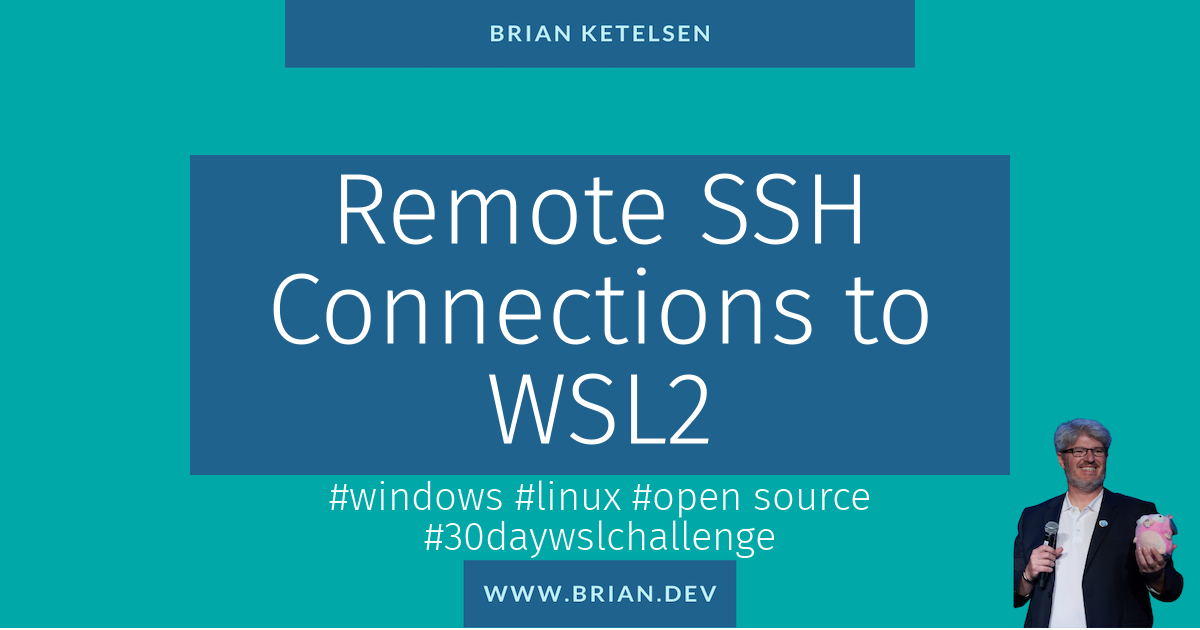
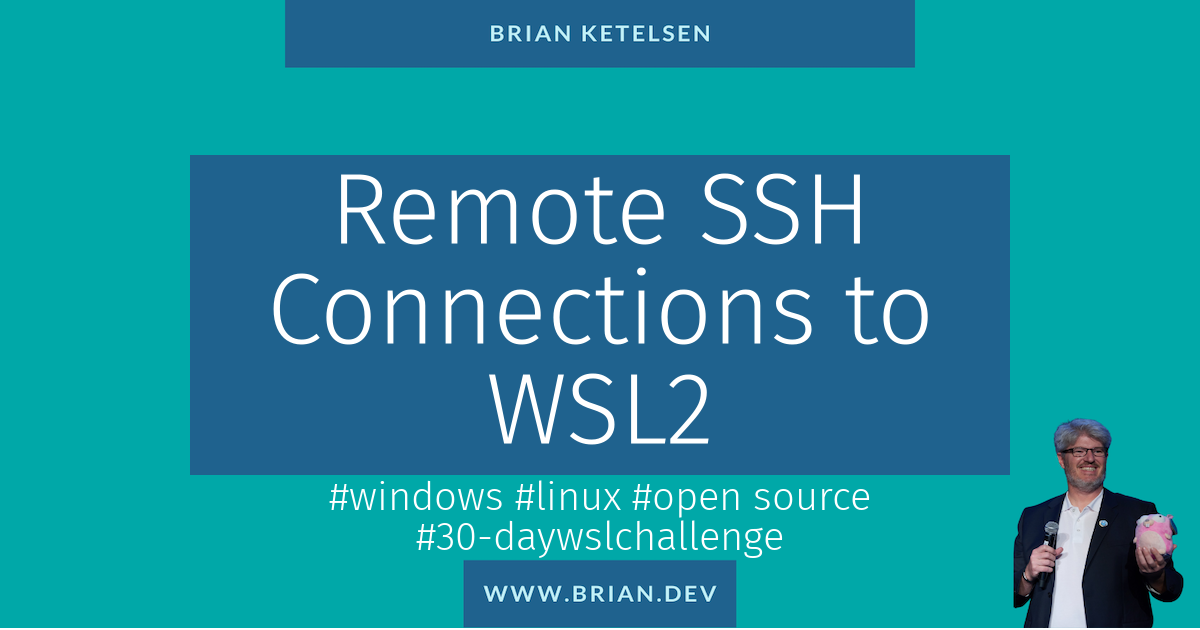
fix some tags

Changed region(s): [[0.3392, 0.8143, 0.6475, 0.9048]]

diff --git a/data/blog/win-the-dev-box.md b/data/blog/win-the-dev-box.md
@@ -3,7 +3,7 @@ title: Windows for Open Source Development
 date: '2020-02-24'
 images: ['/static/images/h3GAGi5tXMU.jpg']
 summary: 'A Series on Using Windows for Open Source Development'
-tags: ['windows', 'linux', 'open source', '30daywslchallenge']
+tags: ['windows', 'linux', 'open source', '30-daywslchallenge']
 ---
 
 I've long used macOS or Linux when I make my Open Source contributions, but I think that the time is right to try Windows as a full-time development environment. If you want to jump on board, this article series is for you!
@@ -18,9 +18,9 @@ The series will continue with other articles and advice on using Windows as your
 
 In a discussion with [Rob Conery](https://twitter.com/robconery) I made the bold statement that with the addition of the [Windows Subsystem for Linux 2(WSL2)](https://docs.microsoft.com/en-us/windows/wsl/wsl2-about) there were no blockers for the average Open Source developer to use Windows as a daily driver.
 
-To put my money where my mouth is, I've (personally) purchased a [Surface Laptop 3](https://www.microsoft.com/en-us/surface/business/surface-laptop-3), and I'm going to use it as my daily workhorse for the next 30 days. We'll call it the #30DayWSLChallenge.
+To put my money where my mouth is, I've (personally) purchased a [Surface Laptop 3](https://www.microsoft.com/en-us/surface/business/surface-laptop-3), and I'm going to use it as my daily workhorse for the next 30 days. We'll call it the #30-daywslhallenge.
 
-Find other articles in this series [with this link](/tags/30daywslchallenge/).
+Find other articles in this series [with this link](/tags/30-daywslchallenge/).
 
 ### Assumptions
 
@@ -185,7 +185,7 @@ If you're in the terminal in a directory you want to edit, you can type `code .`
 
 ## Conclusion
 
-From here you are ready to clone a repo and start making changes. Follow along [here](/tags/30daywslchallenge/) as I add more tips and tricks that I discover on my journey to reduce the number of physical and virtual computers required to do my job.
+From here you are ready to clone a repo and start making changes. Follow along [here](/tags/30-daywslchallenge/) as I add more tips and tricks that I discover on my journey to reduce the number of physical and virtual computers required to do my job.
 
 ## References and Further Information
 

diff --git a/data/blog/ssh-to-wsl2.md b/data/blog/ssh-to-wsl2.md
@@ -3,14 +3,16 @@ title: Remote SSH Connections to WSL2
 date: '2020-03-03'
 images: ['/static/images/ssh-to-wsl2/cdc-_XLJy3h77cw-unsplash.jpg']
 summary: 'A Series on Using Windows for Open Source Development'
-tags: ['windows', 'linux', 'open source', '30daywslchallenge']
+tags: ['windows', 'linux', 'open source', '30-daywslchallenge']
 ---
 
 In this article I share my learnings on remotely accessing your Windows 10 computer. My motivation was to determine efficient ways to access both the Windows environment, and the WSL2 development environment from another computer.
 
+<TOCInline toc={props.toc} asDisclosure />
+
 ## Remote Access for New Windows Users
 
-Find other articles in this series [with this link](/tags/30daywslchallenge/).
+Find other articles in this series [with this link](/tags/30-daywslchallenge/).
 
 For emphasis in this article, many of the screenshots are taken from my iPad Pro accessing my desktop computer running Windows 10 and WSL2.
 
@@ -89,7 +91,7 @@ ssh -p 2222 bjk@192.0.1.100
 
 where the `192.0.1.100` is the IP address of my Windows machine.
 
-### Update August 2020
+## Update August 2020
 
 The failing of this method is that your WSL2 instance gets a new IP address each time it restarts. Based on several of the suggestions in [this Github issue](https://github.com/microsoft/WSL/issues/4150) I've created a successful workaround.
 
@@ -158,7 +160,7 @@ fi
 
 I'll probably extract that out into a bash function called `ensure` so I can use it for more than this task.
 
-#### Extra Credit
+## Extra Credit
 
 For extra credit you can set up port forwarding on your internet router to forward to this same service. I picked a random high port (like 28945), and set up port forwarding from that port to port 2222 on my Windows machine. Because it's an uncommon port, it won't get the usual SSH bot scanning traffic, and I don't have root login or password authentication enabled in the ssh daemon configuration. So I feel relatively good about the security risk. Be sure to understand your security profile before undertaking something like this.
 

diff --git a/data/blog/hello-wascc.md b/data/blog/hello-wascc.md
@@ -4,14 +4,14 @@ title: Hello waSCC
 date: '2020-02-25'
 images: ['/static/images/hello-wascc/h3GAGi5tXMU.jpg'] # image path/url
 summary: 'Web Assembly on the Server'
-tags: ['open source', '30daywslchallenge', 'wasm']
+tags: ['open source', '30-daywslchallenge', 'wasm']
 ---
 
 I'm _really excited_ about Web Assembly on the server. The promise of sandboxed and portable code feels like the realization of the vision Docker tried to achieve. In this article I'm going to walk through creating a service using [waSCC](https://wascc.dev/), which is a host runtime for running actors written in web assembly. We'll mostly follow the tutorial for creating a new actor, but with more nuance, and specifics for using WSL2 on my Windows Laptop added for completeness.
 
 ## WASM on the Server
 
-\*\* This article includes information on how to setup my development environment in WSL2, because it's part of my [#30DayWSLChallenge](/windows-for-open-source-development).
+\*\* This article includes information on how to setup my development environment in WSL2, because it's part of my [#30-daywslchallenge](/windows-for-open-source-development).
 
 ### Development Environment
 
